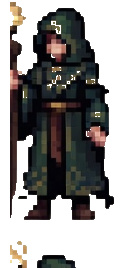
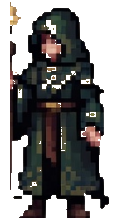
Fix mage sprites, improve stairs, fix level accessibility
- Mage: re-extracted all 3 poses cleanly, no artifacts, normalized size
- Direction change: threshold 40px, cooldown 500ms (less flicker)
- Stairs: new detailed texture with 4 stone steps + gold arrow
- Level accessibility: object-wall clearance check increased to 2 tiles
  (player body 34px needs 64px+ gap between obstacle and wall)
- Rubble is now visual-only like braziers (no collision blocking)
- Stair texture preloaded from PNG instead of procedural generation

diff --git a/tools/fixAll.js b/tools/fixAll.js
@@ -1,0 +1,219 @@
+const { createCanvas, Image } = require('canvas');
+const fs = require('fs');
+
+// === 1. Fix Mage sprites — re-extract cleaner from spritesheet ===
+console.log('=== Fixing Mage Sprites ===');
+
+const mageSheet = new Image();
+mageSheet.src = fs.readFileSync('reference/7.png');
+
+function removeBg(canvas) {
+  const ctx = canvas.getContext('2d');
+  const w = canvas.width, h = canvas.height;
+  const d = ctx.getImageData(0, 0, w, h);
+  const data = d.data;
+
+  // Pass 1: Remove gray/white background
+  for (let i = 0; i < data.length; i += 4) {
+    const r = data[i], g = data[i+1], b = data[i+2];
+    const avg = (r + g + b) / 3;
+    const maxDiff = Math.max(Math.abs(r-avg), Math.abs(g-avg), Math.abs(b-avg));
+    if (maxDiff < 30 && avg > 80) data[i+3] = 0;
+  }
+
+  // Pass 2-4: Erode white/light edge pixels (3 passes for thorough cleanup)
+  for (let pass = 0; pass < 3; pass++) {
+    const copy = new Uint8ClampedArray(data);
+    for (let y = 0; y < h; y++) {
+      for (let x = 0; x < w; x++) {
+        const idx = (y * w + x) * 4;
+        if (copy[idx+3] === 0) continue;
+        const r = copy[idx], g = copy[idx+1], b = copy[idx+2];
+        if (r > 150 && g > 150 && b > 150) {
+          let tn = 0;
+          for (let dy = -1; dy <= 1; dy++) {
+            for (let dx = -1; dx <= 1; dx++) {
+              if (dx === 0 && dy === 0) continue;
+              const nx = x+dx, ny = y+dy;
+              if (nx < 0 || nx >= w || ny < 0 || ny >= h) { tn++; continue; }
+              if (copy[(ny*w+nx)*4+3] === 0) tn++;
+            }
+          }
+          if (tn >= 2) data[idx+3] = 0;
+        }
+      }
+    }
+  }
+  ctx.putImageData(d, 0, 0);
+}
+
+function trim(canvas) {
+  const data = canvas.getContext('2d').getImageData(0, 0, canvas.width, canvas.height).data;
+  let x0 = canvas.width, y0 = canvas.height, x1 = 0, y1 = 0;
+  for (let y = 0; y < canvas.height; y++)
+    for (let x = 0; x < canvas.width; x++)
+      if (data[(y * canvas.width + x) * 4 + 3] > 10) {
+        x0 = Math.min(x0, x); x1 = Math.max(x1, x);
+        y0 = Math.min(y0, y); y1 = Math.max(y1, y);
+      }
+  const p = 2;
+  x0 = Math.max(0, x0-p); y0 = Math.max(0, y0-p);
+  x1 = Math.min(canvas.width-1, x1+p); y1 = Math.min(canvas.height-1, y1+p);
+  const t = createCanvas(x1-x0+1, y1-y0+1);
+  t.getContext('2d').drawImage(canvas, x0, y0, x1-x0+1, y1-y0+1, 0, 0, x1-x0+1, y1-y0+1);
+  return t;
+}
+
+function flip(canvas) {
+  const f = createCanvas(canvas.width, canvas.height);
+  const ctx = f.getContext('2d');
+  ctx.translate(canvas.width, 0); ctx.scale(-1, 1);
+  ctx.drawImage(canvas, 0, 0);
+  return f;
+}
+
+// Better extraction positions — tighter crop, avoid neighboring sprites
+// Pose 0 (idle): the one at x~530, but crop ABOVE the lower flame remnant
+const extractPose = (x, y, w, h, maxH) => {
+  const c = createCanvas(w, h);
+  c.getContext('2d').drawImage(mageSheet, x, y, w, h, 0, 0, w, h);
+  removeBg(c);
+  let trimmed = trim(c);
+  // If trimmed is taller than maxH, crop from bottom (remove lower artifacts)
+  if (maxH && trimmed.height > maxH) {
+    const cropped = createCanvas(trimmed.width, maxH);
+    cropped.getContext('2d').drawImage(trimmed, 0, 0);
+    trimmed = cropped;
+  }
+  return trimmed;
+};
+
+// Extract 3 clean mage poses
+const pose0 = extractPose(520, 15, 135, 260, 240);  // idle - tighter crop, shorter
+const pose1 = extractPose(520, 345, 135, 220, 200); // windup
+const pose2 = extractPose(675, 15, 150, 260, 240);  // casting
+
+console.log('pose0:', pose0.width + 'x' + pose0.height);
+console.log('pose1:', pose1.width + 'x' + pose1.height);
+console.log('pose2:', pose2.width + 'x' + pose2.height);
+
+// Normalize all to same canvas size (bottom-aligned, centered)
+const maxW = Math.max(pose0.width, pose1.width, pose2.width);
+const maxH = Math.max(pose0.height, pose1.height, pose2.height);
+console.log('Normalizing to:', maxW + 'x' + maxH);
+
+function normalizeToCanvas(sprite, targetW, targetH) {
+  const c = createCanvas(targetW, targetH);
+  const ctx = c.getContext('2d');
+  const dx = Math.floor((targetW - sprite.width) / 2);
+  const dy = targetH - sprite.height;
+  ctx.drawImage(sprite, dx, dy);
+  return c;
+}
+
+const poses = [pose0, pose1, pose2];
+const names = ['right0', 'right1', 'right2'];
+
+poses.forEach((p, i) => {
+  const norm = normalizeToCanvas(p, maxW, maxH);
+  fs.writeFileSync('assets/enemy/mage/' + names[i] + '.png', norm.toBuffer('image/png'));
+  const flipped = flip(norm);
+  fs.writeFileSync('assets/enemy/mage/left' + i + '.png', flipped.toBuffer('image/png'));
+  console.log(names[i] + ': done');
+});
+fs.writeFileSync('assets/enemy/mage/mage.png', normalizeToCanvas(pose0, maxW, maxH).toBuffer('image/png'));
+
+// === 2. Fix stair texture ===
+console.log('\n=== Improving Stair Texture ===');
+
+// Check current stair texture generation in graphics.js
+// We'll create a better one programmatically
+const stairW = 48, stairH = 48;
+const stairCanvas = createCanvas(stairW, stairH);
+const sctx = stairCanvas.getContext('2d');
+
+// Dark stone base
+sctx.fillStyle = '#3a3a42';
+sctx.fillRect(0, 0, stairW, stairH);
+
+// Draw descending stairs (4 steps)
+const stepColors = ['#555560', '#4e4e58', '#474750', '#404048'];
+const stepHighlight = ['#666670', '#5e5e68', '#565660', '#4e4e58'];
+const stepShadow = ['#3a3a42', '#333338', '#2d2d32', '#28282e'];
+
+for (let i = 0; i < 4; i++) {
+  const sy = 8 + i * 10;
+  const sx = 4 + i * 3;
+  const sw = stairW - 8 - i * 6;
+
+  // Step top surface (lighter)
+  sctx.fillStyle = stepHighlight[i];
+  sctx.fillRect(sx, sy, sw, 3);
+
+  // Step front face
+  sctx.fillStyle = stepColors[i];
+  sctx.fillRect(sx, sy + 3, sw, 5);
+
+  // Step shadow edge
+  sctx.fillStyle = stepShadow[i];
+  sctx.fillRect(sx, sy + 7, sw, 2);
+
+  // Left edge highlight
+  sctx.fillStyle = stepHighlight[i];
+  sctx.fillRect(sx, sy, 2, 8);
+
+  // Right edge shadow
+  sctx.fillStyle = stepShadow[i];
+  sctx.fillRect(sx + sw - 2, sy, 2, 8);
+
+  // Noise on step face
+  for (let n = 0; n < 5; n++) {
+    const nx = sx + 3 + Math.floor(Math.random() * (sw - 6));
+    const ny = sy + 3 + Math.floor(Math.random() * 4);
+    sctx.fillStyle = Math.random() > 0.5 ? stepHighlight[i] : stepShadow[i];
+    sctx.fillRect(nx, ny, 1, 1);
+  }
+}
+
+// Arrow indicator at bottom
+sctx.fillStyle = '#ccaa33';
+sctx.beginPath();
+sctx.moveTo(24, 42);
+sctx.lineTo(18, 36);
+sctx.lineTo(30, 36);
+sctx.closePath();
+sctx.fill();
+
+// Arrow outline
+sctx.strokeStyle = '#aa8822';
+sctx.lineWidth = 1;
+sctx.beginPath();
+sctx.moveTo(24, 42);
+sctx.lineTo(18, 36);
+sctx.lineTo(30, 36);
+sctx.closePath();
+sctx.stroke();
+
+fs.writeFileSync('assets/tiles/stairDown.png', stairCanvas.toBuffer('image/png'));
+console.log('Stair texture generated: 48x48');
+
+// === 3. Check player display size for level clearance ===
+console.log('\n=== Player Size Analysis ===');
+console.log('PLAYER_COLLIDER_WIDTH: 34px');
+console.log('PLAYER_COLLIDER_HEIGHT: 56px');
+console.log('PLAYER_BASE_DISPLAY_WIDTH: 60px (before VISUAL_SCALE)');
+console.log('PLAYER_BASE_DISPLAY_HEIGHT: 150px (before VISUAL_SCALE)');
+console.log('PLAYER_VISUAL_SCALE: 0.48');
+console.log('Actual display: 60*0.48=29px wide, 150*0.48=72px tall');
+console.log('Physics body: 34x56px');
+console.log('');
+console.log('For 3-tile-wide passages (96px):');
+console.log('  34px body fits easily (62px clearance)');
+console.log('  56px body height fits in 2 tiles (64px) tightly');
+console.log('');
+console.log('Problem: objects like pillars/crates are 32x32 sprites');
+console.log('with physics bodies. If placed 1 tile from wall,');
+console.log('gap = 32px (1 tile) which is LESS than 34px body width!');
+console.log('Need at least 2 tiles (64px) gap between object and wall.');
+
+console.log('\nAll fixes done!');

diff --git a/js/roomTemplates.js b/js/roomTemplates.js
@@ -576,14 +576,16 @@ function applyRoomTemplate(scene, tpl, originX = 0, originY = 0) {
     }
 
     // Check if object has enough clearance from walls (at least 2 tiles)
-    // to avoid blocking passages. Braziers are visual-only, always place them.
+    // Player body is 34x56px, objects are 32x32. Need 2+ tiles gap.
     const isBrazier = o.type === 'brazier' || o.type === 'brazer';
+    const isRubble = o.type === 'rubble';
     const tileX = Math.floor(o.x), tileY = Math.floor(o.y);
     let tooClose = false;
-    if (!isBrazier && wallsGrid) {
+    if (!isBrazier && !isRubble && wallsGrid) {
       // Check 2-tile radius for walls
-      for (let dy = -1; dy <= 1 && !tooClose; dy++) {
-        for (let dx = -1; dx <= 1 && !tooClose; dx++) {
+      for (let dy = -2; dy <= 2 && !tooClose; dy++) {
+        for (let dx = -2; dx <= 2 && !tooClose; dx++) {
+          if (dx === 0 && dy === 0) continue;
           const cx = tileX + dx, cy = tileY + dy;
           if (cy >= 0 && cy < wallsGrid.length && cx >= 0 && cx < (wallsGrid[cy]?.length || 0)) {
             if (wallsGrid[cy][cx] === '#') tooClose = true;

diff --git a/js/enemy.js b/js/enemy.js
@@ -647,8 +647,8 @@ function handleEnemies(time, delta = 16) {
     // - Only switch on significant horizontal movement (threshold to avoid flicker)
     // - Never switch during attack animation
     // - Cooldown of 200ms between direction changes
-    const DIR_THRESHOLD = 15; // minimum horizontal velocity to trigger direction change
-    const DIR_COOLDOWN = 200; // ms between direction changes
+    const DIR_THRESHOLD = 40; // minimum horizontal velocity to trigger direction change
+    const DIR_COOLDOWN = 500; // ms between direction changes
 
     if (enemy.isImp && !enemy.impAttacking) {
       if (Math.abs(desired.x) > DIR_THRESHOLD && (!enemy._lastDirChange || time - enemy._lastDirChange > DIR_COOLDOWN)) {

diff --git a/js/scenes/startScene.js b/js/scenes/startScene.js
@@ -110,6 +110,9 @@ StartScene.prototype.preload = function () {
   this.load.image('sprite_boss_ceremony', 'assets/enemy/boss_ceremony/ceremonymaster.png');
   this.load.image('sprite_boss_shadow', 'assets/enemy/boss_shadow/shadowcouncillor.png');
 
+  // UI/environment sprites
+  this.load.image('stairDown', 'assets/tiles/stairDown.png');
+
   const templateNames = [
     "Arena", "ArmoryVault", "BridgeOverGap", "Cathedral", "CelestialGardens", "Checkerboard",
     "CirclePillars", "CollapsingHall", "Crosshall", "CrossroadChamber", "Crossroads",
